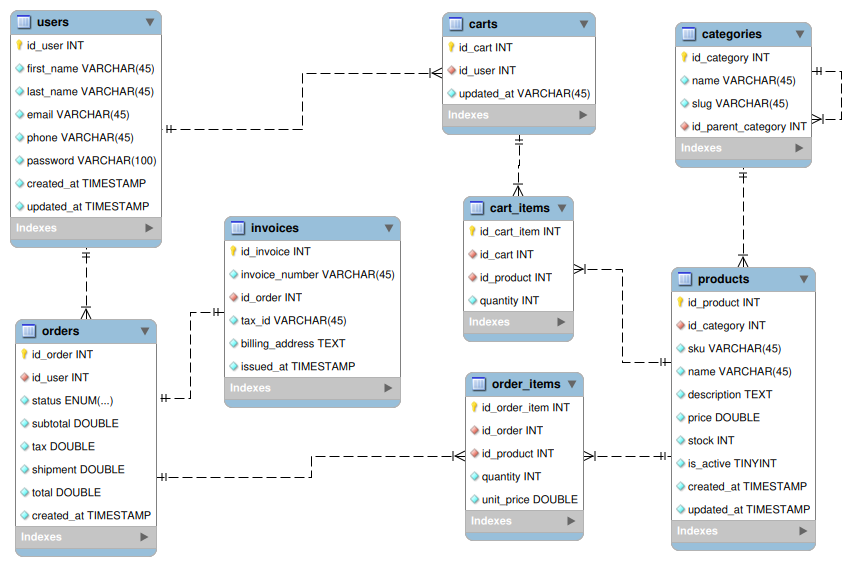
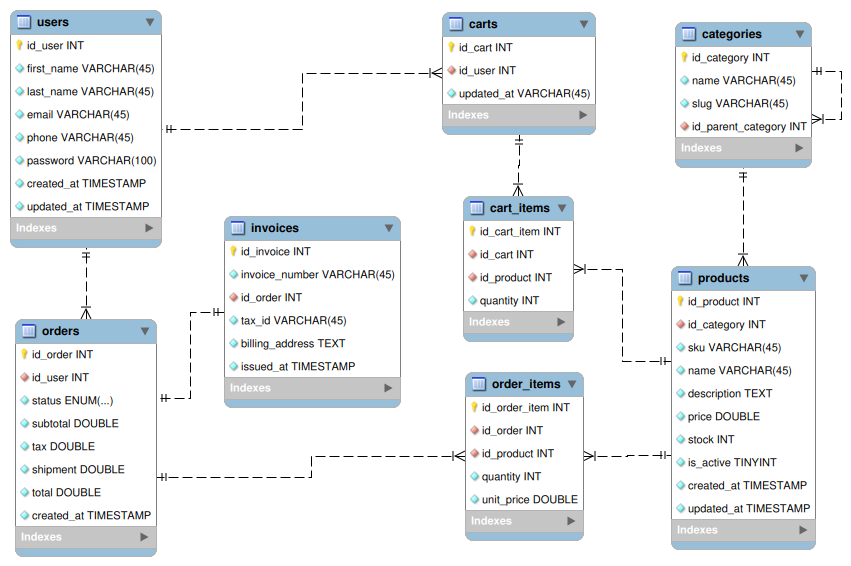
actualizando

Changed region(s): [[0.7944, 0.4505, 0.9471, 0.9912]]

diff --git a/src/main/java/mx/uam/cua/store/controller/TestController.java b/src/main/java/mx/uam/cua/store/controller/TestController.java
@@ -1,7 +1,5 @@
 package mx.uam.cua.store.controller;
 
-import org.springframework.stereotype.Controller;
-import org.springframework.stereotype.Repository;
 import org.springframework.web.bind.annotation.GetMapping;
 import org.springframework.web.bind.annotation.RequestMapping;
 import org.springframework.web.bind.annotation.RestController;
@@ -12,9 +10,7 @@ public class TestController {
 
   @GetMapping("/hola")
   public String hola(){
-
       System.out.println("Ejecutando hola");
-
       return "Hola desde Sprign";
   }
 
